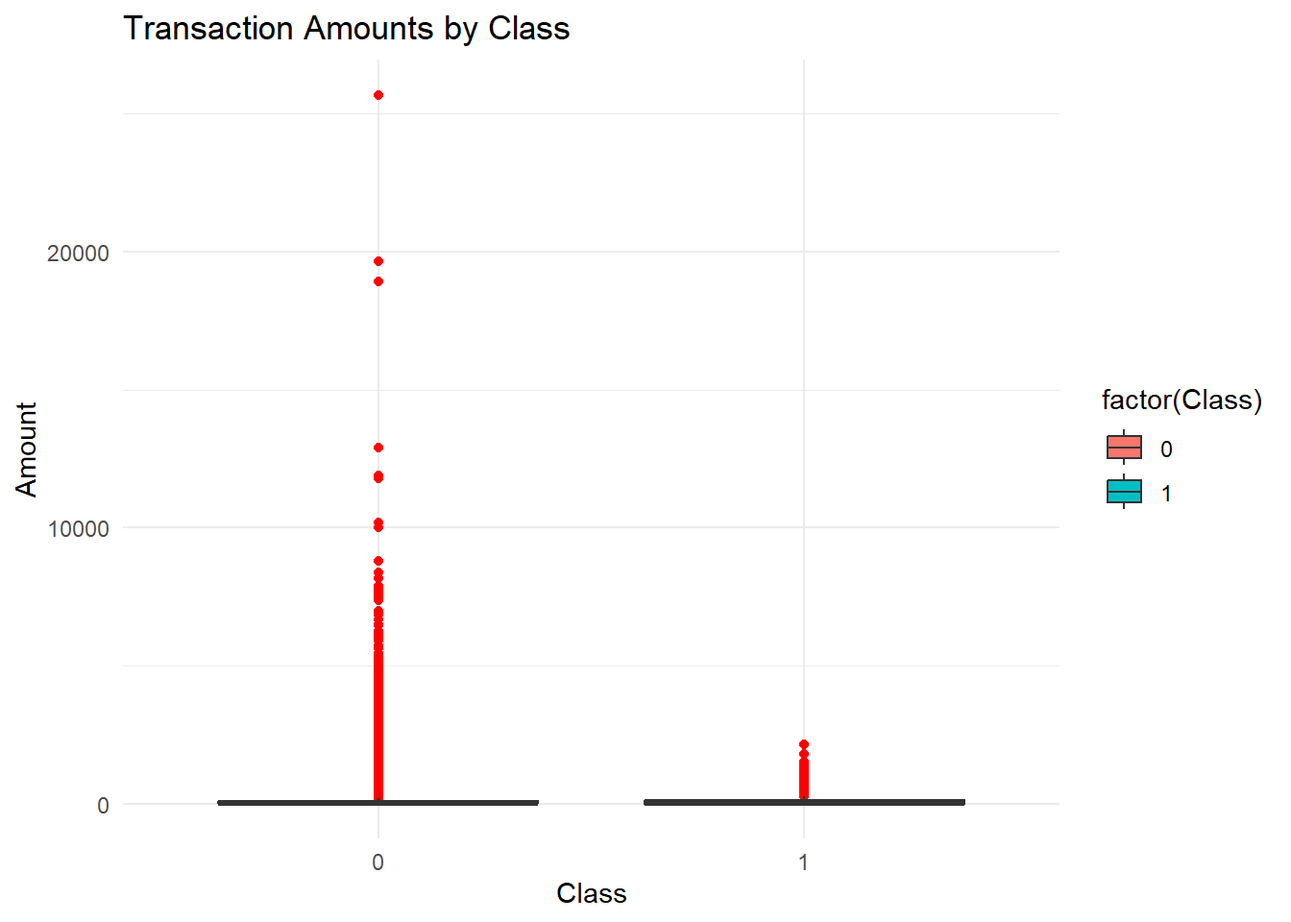
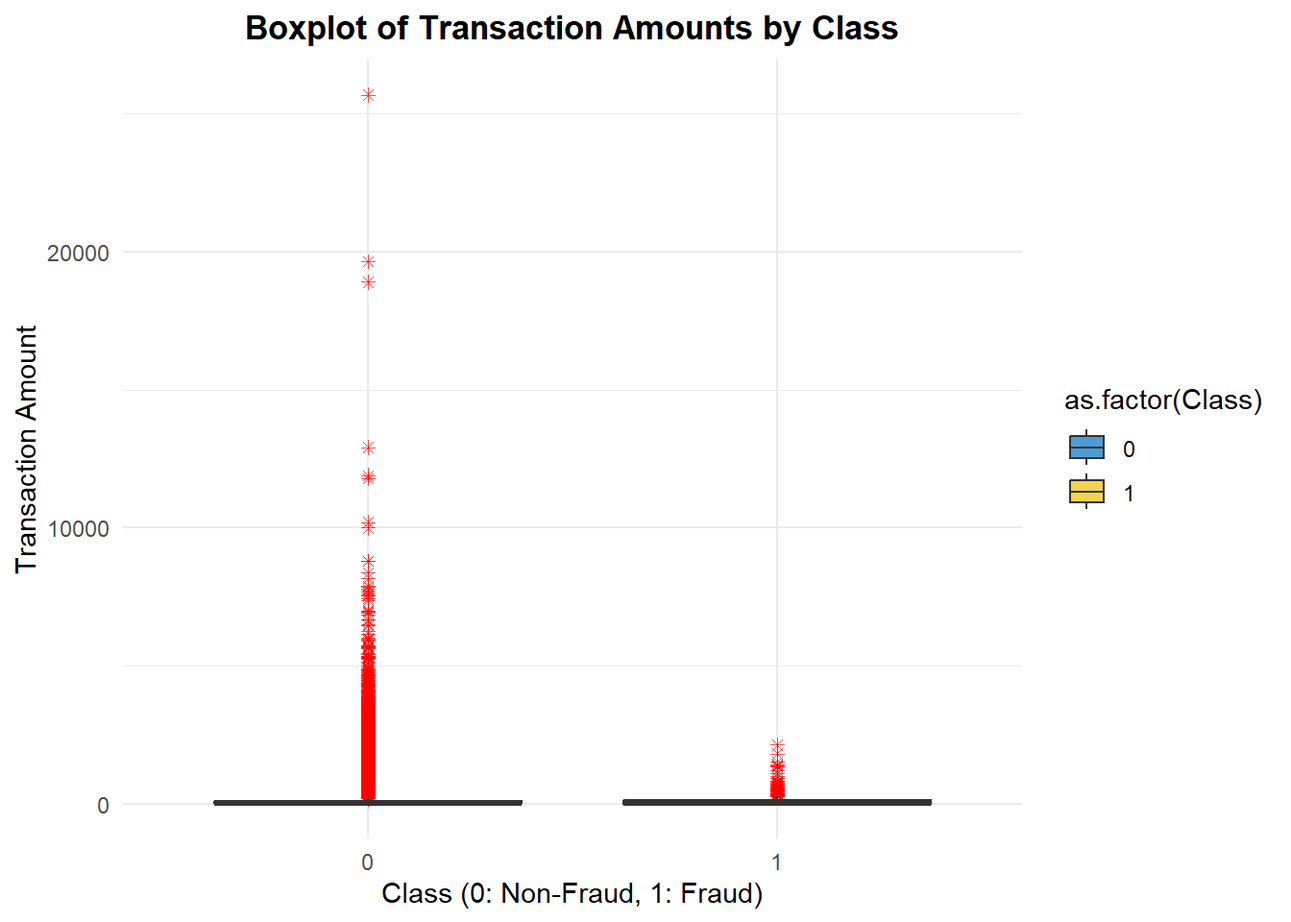
boxplot for class

diff --git a/Analysis.html b/Analysis.html
@@ -93,8 +93,8 @@ ul.task-list li input[type="checkbox"] {
 <h1>Reading the data</h1>
 <div class="cell">
 <div class="cell-output-display">
-<div class="datatables html-widget html-fill-item-overflow-hidden html-fill-item" id="htmlwidget-a2525788a25b4bd6c91a" style="width:100%;height:auto;"></div>
-<script type="application/json" data-for="htmlwidget-a2525788a25b4bd6c91a">{"x":{"filter":"none","vertical":false,"data":[["1","2","3","4","5","6"],[0,0,1,1,2,2],[-1.3598071336738,1.19185711131486,-1.35835406159823,-0.966271711572087,-1.15823309349523,-0.425965884412454],[-0.07278117330984971,0.26615071205963,-1.34016307473609,-0.185226008082898,0.877736754848451,0.960523044882985],[2.53634673796914,0.16648011335321,1.77320934263119,1.79299333957872,1.548717846511,1.14110934232219],[1.37815522427443,0.448154078460911,0.379779593034328,-0.863291275036453,0.403033933955121,-0.168252079760302],[-0.338320769942518,0.0600176492822243,-0.503198133318193,-0.0103088796030823,-0.407193377311653,0.42098688077219],[0.462387777762292,-0.0823608088155687,1.80049938079263,1.24720316752486,0.0959214624684256,-0.0297275516639742],[0.239598554061257,-0.0788029833323113,0.791460956450422,0.23760893977178,0.592940745385545,0.476200948720027],[0.0986979012610507,0.08510165491481041,0.247675786588991,0.377435874652262,-0.270532677192282,0.260314333074874],[0.363786969611213,-0.255425128109186,-1.51465432260583,-1.38702406270197,0.8177393082352939,-0.56867137571251],[0.0907941719789316,-0.166974414004614,0.207642865216696,-0.0549519224713749,0.753074431976354,-0.371407196834471],[-0.551599533260813,1.61272666105479,0.624501459424895,-0.226487263835401,-0.822842877946363,1.34126198001957],[-0.617800855762348,1.06523531137287,0.066083685268831,0.178228225877303,0.53819555014995,0.359893837038039],[-0.991389847235408,0.48909501589608,0.7172927314108311,0.507756869957169,1.3458515932154,-0.358090652573631],[-0.311169353699879,-0.143772296441519,-0.165945922763554,-0.28792374549456,-1.11966983471731,-0.137133700217612],[1.46817697209427,0.635558093258208,2.34586494901581,-0.631418117709045,0.175121130008994,0.517616806555742],[-0.470400525259478,0.463917041022171,-2.89008319444231,-1.0596472454325,-0.451449182813529,0.401725895589603],[0.207971241929242,-0.114804663102346,1.10996937869599,-0.684092786345479,-0.237033239362776,-0.0581328233640131],[0.0257905801985591,-0.183361270123994,-0.121359313195888,1.96577500349538,-0.0381947870352842,0.06865314944254319],[0.403992960255733,-0.145783041325259,-2.26185709530414,-1.2326219700892,0.803486924960175,-0.0331937877876282],[0.251412098239705,-0.0690831352230203,0.5249797252244039,-0.208037781160366,0.408542360392758,0.08496767206820489],[-0.018306777944153,-0.225775248033138,0.247998153469754,-0.108300452035545,-0.009430697132329189,-0.208253514656728],[0.277837575558899,-0.638671952771851,0.7716794019172289,0.00527359678253453,0.79827849458971,-0.559824796253248],[-0.110473910188767,0.101288021253234,0.909412262347719,-0.190320518742841,-0.137458079619063,-0.0263976679795373],[0.06692807491467311,-0.339846475529127,-0.689280956490685,-1.17557533186321,0.141266983824769,-0.371426583174346],[0.128539358273528,0.167170404418143,-0.327641833735251,0.647376034602038,-0.206009587619756,-0.232793816737034],[-0.189114843888824,0.125894532368176,-0.139096571514147,-0.221928844458407,0.502292224181569,0.105914779097957],[0.133558376740387,-0.00898309914322813,-0.0553527940384261,0.0627228487293033,0.219422229513348,0.253844224739337],[-0.0210530534538215,0.0147241691924927,-0.0597518405929204,0.0614576285006353,0.215153147499206,0.08108025692294429],[149.62,2.69,378.66,123.5,69.98999999999999,3.67],[0,0,0,0,0,0]],"container":"<table class=\"display\">\n  <thead>\n    <tr>\n      <th> <\/th>\n      <th>Time<\/th>\n      <th>V1<\/th>\n      <th>V2<\/th>\n      <th>V3<\/th>\n      <th>V4<\/th>\n      <th>V5<\/th>\n      <th>V6<\/th>\n      <th>V7<\/th>\n      <th>V8<\/th>\n      <th>V9<\/th>\n      <th>V10<\/th>\n      <th>V11<\/th>\n      <th>V12<\/th>\n      <th>V13<\/th>\n      <th>V14<\/th>\n      <th>V15<\/th>\n      <th>V16<\/th>\n      <th>V17<\/th>\n      <th>V18<\/th>\n      <th>V19<\/th>\n      <th>V20<\/th>\n      <th>V21<\/th>\n      <th>V22<\/th>\n      <th>V23<\/th>\n      <th>V24<\/th>\n      <th>V25<\/th>\n      <th>V26<\/th>\n      <th>V27<\/th>\n      <th>V28<\/th>\n      <th>Amount<\/th>\n      <th>Class<\/th>\n    <\/tr>\n  <\/thead>\n<\/table>","options":{"columnDefs":[{"className":"dt-right","targets":[1,2,3,4,5,6,7,8,9,10,11,12,13,14,15,16,17,18,19,20,21,22,23,24,25,26,27,28,29,30,31]},{"orderable":false,"targets":0}],"order":[],"autoWidth":false,"orderClasses":false}},"evals":[],"jsHooks":[]}</script>
+<div class="datatables html-widget html-fill-item-overflow-hidden html-fill-item" id="htmlwidget-20f907aa41ca84641a3b" style="width:100%;height:auto;"></div>
+<script type="application/json" data-for="htmlwidget-20f907aa41ca84641a3b">{"x":{"filter":"none","vertical":false,"data":[["1","2","3","4","5","6"],[0,0,1,1,2,2],[-1.3598071336738,1.19185711131486,-1.35835406159823,-0.966271711572087,-1.15823309349523,-0.425965884412454],[-0.07278117330984971,0.26615071205963,-1.34016307473609,-0.185226008082898,0.877736754848451,0.960523044882985],[2.53634673796914,0.16648011335321,1.77320934263119,1.79299333957872,1.548717846511,1.14110934232219],[1.37815522427443,0.448154078460911,0.379779593034328,-0.863291275036453,0.403033933955121,-0.168252079760302],[-0.338320769942518,0.0600176492822243,-0.503198133318193,-0.0103088796030823,-0.407193377311653,0.42098688077219],[0.462387777762292,-0.0823608088155687,1.80049938079263,1.24720316752486,0.0959214624684256,-0.0297275516639742],[0.239598554061257,-0.0788029833323113,0.791460956450422,0.23760893977178,0.592940745385545,0.476200948720027],[0.0986979012610507,0.08510165491481041,0.247675786588991,0.377435874652262,-0.270532677192282,0.260314333074874],[0.363786969611213,-0.255425128109186,-1.51465432260583,-1.38702406270197,0.8177393082352939,-0.56867137571251],[0.0907941719789316,-0.166974414004614,0.207642865216696,-0.0549519224713749,0.753074431976354,-0.371407196834471],[-0.551599533260813,1.61272666105479,0.624501459424895,-0.226487263835401,-0.822842877946363,1.34126198001957],[-0.617800855762348,1.06523531137287,0.066083685268831,0.178228225877303,0.53819555014995,0.359893837038039],[-0.991389847235408,0.48909501589608,0.7172927314108311,0.507756869957169,1.3458515932154,-0.358090652573631],[-0.311169353699879,-0.143772296441519,-0.165945922763554,-0.28792374549456,-1.11966983471731,-0.137133700217612],[1.46817697209427,0.635558093258208,2.34586494901581,-0.631418117709045,0.175121130008994,0.517616806555742],[-0.470400525259478,0.463917041022171,-2.89008319444231,-1.0596472454325,-0.451449182813529,0.401725895589603],[0.207971241929242,-0.114804663102346,1.10996937869599,-0.684092786345479,-0.237033239362776,-0.0581328233640131],[0.0257905801985591,-0.183361270123994,-0.121359313195888,1.96577500349538,-0.0381947870352842,0.06865314944254319],[0.403992960255733,-0.145783041325259,-2.26185709530414,-1.2326219700892,0.803486924960175,-0.0331937877876282],[0.251412098239705,-0.0690831352230203,0.5249797252244039,-0.208037781160366,0.408542360392758,0.08496767206820489],[-0.018306777944153,-0.225775248033138,0.247998153469754,-0.108300452035545,-0.009430697132329189,-0.208253514656728],[0.277837575558899,-0.638671952771851,0.7716794019172289,0.00527359678253453,0.79827849458971,-0.559824796253248],[-0.110473910188767,0.101288021253234,0.909412262347719,-0.190320518742841,-0.137458079619063,-0.0263976679795373],[0.06692807491467311,-0.339846475529127,-0.689280956490685,-1.17557533186321,0.141266983824769,-0.371426583174346],[0.128539358273528,0.167170404418143,-0.327641833735251,0.647376034602038,-0.206009587619756,-0.232793816737034],[-0.189114843888824,0.125894532368176,-0.139096571514147,-0.221928844458407,0.502292224181569,0.105914779097957],[0.133558376740387,-0.00898309914322813,-0.0553527940384261,0.0627228487293033,0.219422229513348,0.253844224739337],[-0.0210530534538215,0.0147241691924927,-0.0597518405929204,0.0614576285006353,0.215153147499206,0.08108025692294429],[149.62,2.69,378.66,123.5,69.98999999999999,3.67],[0,0,0,0,0,0]],"container":"<table class=\"display\">\n  <thead>\n    <tr>\n      <th> <\/th>\n      <th>Time<\/th>\n      <th>V1<\/th>\n      <th>V2<\/th>\n      <th>V3<\/th>\n      <th>V4<\/th>\n      <th>V5<\/th>\n      <th>V6<\/th>\n      <th>V7<\/th>\n      <th>V8<\/th>\n      <th>V9<\/th>\n      <th>V10<\/th>\n      <th>V11<\/th>\n      <th>V12<\/th>\n      <th>V13<\/th>\n      <th>V14<\/th>\n      <th>V15<\/th>\n      <th>V16<\/th>\n      <th>V17<\/th>\n      <th>V18<\/th>\n      <th>V19<\/th>\n      <th>V20<\/th>\n      <th>V21<\/th>\n      <th>V22<\/th>\n      <th>V23<\/th>\n      <th>V24<\/th>\n      <th>V25<\/th>\n      <th>V26<\/th>\n      <th>V27<\/th>\n      <th>V28<\/th>\n      <th>Amount<\/th>\n      <th>Class<\/th>\n    <\/tr>\n  <\/thead>\n<\/table>","options":{"columnDefs":[{"className":"dt-right","targets":[1,2,3,4,5,6,7,8,9,10,11,12,13,14,15,16,17,18,19,20,21,22,23,24,25,26,27,28,29,30,31]},{"orderable":false,"targets":0}],"order":[],"autoWidth":false,"orderClasses":false}},"evals":[],"jsHooks":[]}</script>
 </div>
 </div>
 </section>
@@ -157,8 +157,8 @@ Note
 <h2 class="anchored" data-anchor-id="exploring-the-data">Exploring the data</h2>
 <div class="cell">
 <div class="cell-output-display">
-<div class="datatables html-widget html-fill-item-overflow-hidden html-fill-item" id="htmlwidget-0b53a9c8b8015eda41b4" style="width:100%;height:auto;"></div>
-<script type="application/json" data-for="htmlwidget-0b53a9c8b8015eda41b4">{"x":{"filter":"none","vertical":false,"data":[["","","","","","","","","","","","","","","","","","","","","","","","","","","","","","","","","","","","","","","","","","","","","","","","","","","","","","","","","","","","","","","","","","","","","","","","","","","","","","","","","","","","","","","","","","","","","","","","","","","","","","","","","","","","","","","","","","","","","","","","","","","","","","","","","","","","","","","","","","","","","","","","","","","","","","","","","","","","","","","","","","","","","","","","","","","","","","","","","","","","","","","","","",""],["","","","","","","","","","","","","","","","","","","","","","","","","","","","","","","","","","","","","","","","","","","","","","","","","","","","","","","","","","","","","","","","","","","","","","","","","","","","","","","","","","","","","","","","","","","","","","","","","","","","","","","","","","","","","","","","","","","","","","","","","","","","","","","","","","","","","","","","","","","","","","","","","","","","","","","","","","","","","","","","","","","","","","","","","","","","","","","","","","","","","","","","","",""],["     Time","     Time","     Time","     Time","     Time","     Time","      V1","      V1","      V1","      V1","      V1","      V1","      V2","      V2","      V2","      V2","      V2","      V2","      V3","      V3","      V3","      V3","      V3","      V3","      V4","      V4","      V4","      V4","      V4","      V4","      V5","      V5","      V5","      V5","      V5","      V5","      V6","      V6","      V6","      V6","      V6","      V6","      V7","      V7","      V7","      V7","      V7","      V7","      V8","      V8","      V8","      V8","      V8","      V8","      V9","      V9","      V9","      V9","      V9","      V9","     V10","     V10","     V10","     V10","     V10","     V10","     V11","     V11","     V11","     V11","     V11","     V11","     V12","     V12","     V12","     V12","     V12","     V12","     V13","     V13","     V13","     V13","     V13","     V13","     V14","     V14","     V14","     V14","     V14","     V14","     V15","     V15","     V15","     V15","     V15","     V15","     V16","     V16","     V16","     V16","     V16","     V16","     V17","     V17","     V17","     V17","     V17","     V17","     V18","     V18","     V18","     V18","     V18","     V18","     V19","     V19","     V19","     V19","     V19","     V19","     V20","     V20","     V20","     V20","     V20","     V20","     V21","     V21","     V21","     V21","     V21","     V21","     V22","     V22","     V22","     V22","     V22","     V22","     V23","     V23","     V23","     V23","     V23","     V23","     V24","     V24","     V24","     V24","     V24","     V24","     V25","     V25","     V25","     V25","     V25","     V25","     V26","     V26","     V26","     V26","     V26","     V26","     V27","     V27","     V27","     V27","     V27","     V27","     V28","     V28","     V28","     V28","     V28","     V28","    Amount","    Amount","    Amount","    Amount","    Amount","    Amount","    Class","    Class","    Class","    Class","    Class","    Class"],["Min.   :     0  ","1st Qu.: 54202  ","Median : 84692  ","Mean   : 94814  ","3rd Qu.:139321  ","Max.   :172792  ","Min.   :-56.40751  ","1st Qu.: -0.92037  ","Median :  0.01811  ","Mean   :  0.00000  ","3rd Qu.:  1.31564  ","Max.   :  2.45493  ","Min.   :-72.71573  ","1st Qu.: -0.59855  ","Median :  0.06549  ","Mean   :  0.00000  ","3rd Qu.:  0.80372  ","Max.   : 22.05773  ","Min.   :-48.3256  ","1st Qu.: -0.8904  ","Median :  0.1799  ","Mean   :  0.0000  ","3rd Qu.:  1.0272  ","Max.   :  9.3826  ","Min.   :-5.68317  ","1st Qu.:-0.84864  ","Median :-0.01985  ","Mean   : 0.00000  ","3rd Qu.: 0.74334  ","Max.   :16.87534  ","Min.   :-113.74331  ","1st Qu.:  -0.69160  ","Median :  -0.05434  ","Mean   :   0.00000  ","3rd Qu.:   0.61193  ","Max.   :  34.80167  ","Min.   :-26.1605  ","1st Qu.: -0.7683  ","Median : -0.2742  ","Mean   :  0.0000  ","3rd Qu.:  0.3986  ","Max.   : 73.3016  ","Min.   :-43.5572  ","1st Qu.: -0.5541  ","Median :  0.0401  ","Mean   :  0.0000  ","3rd Qu.:  0.5704  ","Max.   :120.5895  ","Min.   :-73.21672  ","1st Qu.: -0.20863  ","Median :  0.02236  ","Mean   :  0.00000  ","3rd Qu.:  0.32735  ","Max.   : 20.00721  ","Min.   :-13.43407  ","1st Qu.: -0.64310  ","Median : -0.05143  ","Mean   :  0.00000  ","3rd Qu.:  0.59714  ","Max.   : 15.59500  ","Min.   :-24.58826  ","1st Qu.: -0.53543  ","Median : -0.09292  ","Mean   :  0.00000  ","3rd Qu.:  0.45392  ","Max.   : 23.74514  ","Min.   :-4.79747  ","1st Qu.:-0.76249  ","Median :-0.03276  ","Mean   : 0.00000  ","3rd Qu.: 0.73959  ","Max.   :12.01891  ","Min.   :-18.6837  ","1st Qu.: -0.4056  ","Median :  0.1400  ","Mean   :  0.0000  ","3rd Qu.:  0.6182  ","Max.   :  7.8484  ","Min.   :-5.79188  ","1st Qu.:-0.64854  ","Median :-0.01357  ","Mean   : 0.00000  ","3rd Qu.: 0.66251  ","Max.   : 7.12688  ","Min.   :-19.2143  ","1st Qu.: -0.4256  ","Median :  0.0506  ","Mean   :  0.0000  ","3rd Qu.:  0.4931  ","Max.   : 10.5268  ","Min.   :-4.49894  ","1st Qu.:-0.58288  ","Median : 0.04807  ","Mean   : 0.00000  ","3rd Qu.: 0.64882  ","Max.   : 8.87774  ","Min.   :-14.12985  ","1st Qu.: -0.46804  ","Median :  0.06641  ","Mean   :  0.00000  ","3rd Qu.:  0.52330  ","Max.   : 17.31511  ","Min.   :-25.16280  ","1st Qu.: -0.48375  ","Median : -0.06568  ","Mean   :  0.00000  ","3rd Qu.:  0.39968  ","Max.   :  9.25353  ","Min.   :-9.498746  ","1st Qu.:-0.498850  ","Median :-0.003636  ","Mean   : 0.000000  ","3rd Qu.: 0.500807  ","Max.   : 5.041069  ","Min.   :-7.213527  ","1st Qu.:-0.456299  ","Median : 0.003735  ","Mean   : 0.000000  ","3rd Qu.: 0.458949  ","Max.   : 5.591971  ","Min.   :-54.49772  ","1st Qu.: -0.21172  ","Median : -0.06248  ","Mean   :  0.00000  ","3rd Qu.:  0.13304  ","Max.   : 39.42090  ","Min.   :-34.83038  ","1st Qu.: -0.22839  ","Median : -0.02945  ","Mean   :  0.00000  ","3rd Qu.:  0.18638  ","Max.   : 27.20284  ","Min.   :-10.933144  ","1st Qu.: -0.542350  ","Median :  0.006782  ","Mean   :  0.000000  ","3rd Qu.:  0.528554  ","Max.   : 10.503090  ","Min.   :-44.80774  ","1st Qu.: -0.16185  ","Median : -0.01119  ","Mean   :  0.00000  ","3rd Qu.:  0.14764  ","Max.   : 22.52841  ","Min.   :-2.83663  ","1st Qu.:-0.35459  ","Median : 0.04098  ","Mean   : 0.00000  ","3rd Qu.: 0.43953  ","Max.   : 4.58455  ","Min.   :-10.29540  ","1st Qu.: -0.31715  ","Median :  0.01659  ","Mean   :  0.00000  ","3rd Qu.:  0.35072  ","Max.   :  7.51959  ","Min.   :-2.60455  ","1st Qu.:-0.32698  ","Median :-0.05214  ","Mean   : 0.00000  ","3rd Qu.: 0.24095  ","Max.   : 3.51735  ","Min.   :-22.565679  ","1st Qu.: -0.070840  ","Median :  0.001342  ","Mean   :  0.000000  ","3rd Qu.:  0.091045  ","Max.   : 31.612198  ","Min.   :-15.43008  ","1st Qu.: -0.05296  ","Median :  0.01124  ","Mean   :  0.00000  ","3rd Qu.:  0.07828  ","Max.   : 33.84781  ","Min.   :    0.00  ","1st Qu.:    5.60  ","Median :   22.00  ","Mean   :   88.35  ","3rd Qu.:   77.17  ","Max.   :25691.16  ","Min.   :0.000000  ","1st Qu.:0.000000  ","Median :0.000000  ","Mean   :0.001728  ","3rd Qu.:0.000000  ","Max.   :1.000000  "]],"container":"<table class=\"display\">\n  <thead>\n    <tr>\n      <th> <\/th>\n      <th>Var1<\/th>\n      <th>Var2<\/th>\n      <th>Freq<\/th>\n    <\/tr>\n  <\/thead>\n<\/table>","options":{"columnDefs":[{"orderable":false,"targets":0}],"order":[],"autoWidth":false,"orderClasses":false}},"evals":[],"jsHooks":[]}</script>
+<div class="datatables html-widget html-fill-item-overflow-hidden html-fill-item" id="htmlwidget-f3156266aaafa59a753a" style="width:100%;height:auto;"></div>
+<script type="application/json" data-for="htmlwidget-f3156266aaafa59a753a">{"x":{"filter":"none","vertical":false,"data":[["","","","","","","","","","","","","","","","","","","","","","","","","","","","","","","","","","","","","","","","","","","","","","","","","","","","","","","","","","","","","","","","","","","","","","","","","","","","","","","","","","","","","","","","","","","","","","","","","","","","","","","","","","","","","","","","","","","","","","","","","","","","","","","","","","","","","","","","","","","","","","","","","","","","","","","","","","","","","","","","","","","","","","","","","","","","","","","","","","","","","","","","","",""],["","","","","","","","","","","","","","","","","","","","","","","","","","","","","","","","","","","","","","","","","","","","","","","","","","","","","","","","","","","","","","","","","","","","","","","","","","","","","","","","","","","","","","","","","","","","","","","","","","","","","","","","","","","","","","","","","","","","","","","","","","","","","","","","","","","","","","","","","","","","","","","","","","","","","","","","","","","","","","","","","","","","","","","","","","","","","","","","","","","","","","","","","",""],["     Time","     Time","     Time","     Time","     Time","     Time","      V1","      V1","      V1","      V1","      V1","      V1","      V2","      V2","      V2","      V2","      V2","      V2","      V3","      V3","      V3","      V3","      V3","      V3","      V4","      V4","      V4","      V4","      V4","      V4","      V5","      V5","      V5","      V5","      V5","      V5","      V6","      V6","      V6","      V6","      V6","      V6","      V7","      V7","      V7","      V7","      V7","      V7","      V8","      V8","      V8","      V8","      V8","      V8","      V9","      V9","      V9","      V9","      V9","      V9","     V10","     V10","     V10","     V10","     V10","     V10","     V11","     V11","     V11","     V11","     V11","     V11","     V12","     V12","     V12","     V12","     V12","     V12","     V13","     V13","     V13","     V13","     V13","     V13","     V14","     V14","     V14","     V14","     V14","     V14","     V15","     V15","     V15","     V15","     V15","     V15","     V16","     V16","     V16","     V16","     V16","     V16","     V17","     V17","     V17","     V17","     V17","     V17","     V18","     V18","     V18","     V18","     V18","     V18","     V19","     V19","     V19","     V19","     V19","     V19","     V20","     V20","     V20","     V20","     V20","     V20","     V21","     V21","     V21","     V21","     V21","     V21","     V22","     V22","     V22","     V22","     V22","     V22","     V23","     V23","     V23","     V23","     V23","     V23","     V24","     V24","     V24","     V24","     V24","     V24","     V25","     V25","     V25","     V25","     V25","     V25","     V26","     V26","     V26","     V26","     V26","     V26","     V27","     V27","     V27","     V27","     V27","     V27","     V28","     V28","     V28","     V28","     V28","     V28","    Amount","    Amount","    Amount","    Amount","    Amount","    Amount","    Class","    Class","    Class","    Class","    Class","    Class"],["Min.   :     0  ","1st Qu.: 54202  ","Median : 84692  ","Mean   : 94814  ","3rd Qu.:139321  ","Max.   :172792  ","Min.   :-56.40751  ","1st Qu.: -0.92037  ","Median :  0.01811  ","Mean   :  0.00000  ","3rd Qu.:  1.31564  ","Max.   :  2.45493  ","Min.   :-72.71573  ","1st Qu.: -0.59855  ","Median :  0.06549  ","Mean   :  0.00000  ","3rd Qu.:  0.80372  ","Max.   : 22.05773  ","Min.   :-48.3256  ","1st Qu.: -0.8904  ","Median :  0.1799  ","Mean   :  0.0000  ","3rd Qu.:  1.0272  ","Max.   :  9.3826  ","Min.   :-5.68317  ","1st Qu.:-0.84864  ","Median :-0.01985  ","Mean   : 0.00000  ","3rd Qu.: 0.74334  ","Max.   :16.87534  ","Min.   :-113.74331  ","1st Qu.:  -0.69160  ","Median :  -0.05434  ","Mean   :   0.00000  ","3rd Qu.:   0.61193  ","Max.   :  34.80167  ","Min.   :-26.1605  ","1st Qu.: -0.7683  ","Median : -0.2742  ","Mean   :  0.0000  ","3rd Qu.:  0.3986  ","Max.   : 73.3016  ","Min.   :-43.5572  ","1st Qu.: -0.5541  ","Median :  0.0401  ","Mean   :  0.0000  ","3rd Qu.:  0.5704  ","Max.   :120.5895  ","Min.   :-73.21672  ","1st Qu.: -0.20863  ","Median :  0.02236  ","Mean   :  0.00000  ","3rd Qu.:  0.32735  ","Max.   : 20.00721  ","Min.   :-13.43407  ","1st Qu.: -0.64310  ","Median : -0.05143  ","Mean   :  0.00000  ","3rd Qu.:  0.59714  ","Max.   : 15.59500  ","Min.   :-24.58826  ","1st Qu.: -0.53543  ","Median : -0.09292  ","Mean   :  0.00000  ","3rd Qu.:  0.45392  ","Max.   : 23.74514  ","Min.   :-4.79747  ","1st Qu.:-0.76249  ","Median :-0.03276  ","Mean   : 0.00000  ","3rd Qu.: 0.73959  ","Max.   :12.01891  ","Min.   :-18.6837  ","1st Qu.: -0.4056  ","Median :  0.1400  ","Mean   :  0.0000  ","3rd Qu.:  0.6182  ","Max.   :  7.8484  ","Min.   :-5.79188  ","1st Qu.:-0.64854  ","Median :-0.01357  ","Mean   : 0.00000  ","3rd Qu.: 0.66251  ","Max.   : 7.12688  ","Min.   :-19.2143  ","1st Qu.: -0.4256  ","Median :  0.0506  ","Mean   :  0.0000  ","3rd Qu.:  0.4931  ","Max.   : 10.5268  ","Min.   :-4.49894  ","1st Qu.:-0.58288  ","Median : 0.04807  ","Mean   : 0.00000  ","3rd Qu.: 0.64882  ","Max.   : 8.87774  ","Min.   :-14.12985  ","1st Qu.: -0.46804  ","Median :  0.06641  ","Mean   :  0.00000  ","3rd Qu.:  0.52330  ","Max.   : 17.31511  ","Min.   :-25.16280  ","1st Qu.: -0.48375  ","Median : -0.06568  ","Mean   :  0.00000  ","3rd Qu.:  0.39968  ","Max.   :  9.25353  ","Min.   :-9.498746  ","1st Qu.:-0.498850  ","Median :-0.003636  ","Mean   : 0.000000  ","3rd Qu.: 0.500807  ","Max.   : 5.041069  ","Min.   :-7.213527  ","1st Qu.:-0.456299  ","Median : 0.003735  ","Mean   : 0.000000  ","3rd Qu.: 0.458949  ","Max.   : 5.591971  ","Min.   :-54.49772  ","1st Qu.: -0.21172  ","Median : -0.06248  ","Mean   :  0.00000  ","3rd Qu.:  0.13304  ","Max.   : 39.42090  ","Min.   :-34.83038  ","1st Qu.: -0.22839  ","Median : -0.02945  ","Mean   :  0.00000  ","3rd Qu.:  0.18638  ","Max.   : 27.20284  ","Min.   :-10.933144  ","1st Qu.: -0.542350  ","Median :  0.006782  ","Mean   :  0.000000  ","3rd Qu.:  0.528554  ","Max.   : 10.503090  ","Min.   :-44.80774  ","1st Qu.: -0.16185  ","Median : -0.01119  ","Mean   :  0.00000  ","3rd Qu.:  0.14764  ","Max.   : 22.52841  ","Min.   :-2.83663  ","1st Qu.:-0.35459  ","Median : 0.04098  ","Mean   : 0.00000  ","3rd Qu.: 0.43953  ","Max.   : 4.58455  ","Min.   :-10.29540  ","1st Qu.: -0.31715  ","Median :  0.01659  ","Mean   :  0.00000  ","3rd Qu.:  0.35072  ","Max.   :  7.51959  ","Min.   :-2.60455  ","1st Qu.:-0.32698  ","Median :-0.05214  ","Mean   : 0.00000  ","3rd Qu.: 0.24095  ","Max.   : 3.51735  ","Min.   :-22.565679  ","1st Qu.: -0.070840  ","Median :  0.001342  ","Mean   :  0.000000  ","3rd Qu.:  0.091045  ","Max.   : 31.612198  ","Min.   :-15.43008  ","1st Qu.: -0.05296  ","Median :  0.01124  ","Mean   :  0.00000  ","3rd Qu.:  0.07828  ","Max.   : 33.84781  ","Min.   :    0.00  ","1st Qu.:    5.60  ","Median :   22.00  ","Mean   :   88.35  ","3rd Qu.:   77.17  ","Max.   :25691.16  ","Min.   :0.000000  ","1st Qu.:0.000000  ","Median :0.000000  ","Mean   :0.001728  ","3rd Qu.:0.000000  ","Max.   :1.000000  "]],"container":"<table class=\"display\">\n  <thead>\n    <tr>\n      <th> <\/th>\n      <th>Var1<\/th>\n      <th>Var2<\/th>\n      <th>Freq<\/th>\n    <\/tr>\n  <\/thead>\n<\/table>","options":{"columnDefs":[{"orderable":false,"targets":0}],"order":[],"autoWidth":false,"orderClasses":false}},"evals":[],"jsHooks":[]}</script>
 </div>
 </div>
 <section id="check-class-imbalance" class="level3">
@@ -316,14 +316,27 @@ Note
 </div>
 </div>
 </div>
+<div class="callout callout-style-default callout-note callout-titled">
+<div class="callout-header d-flex align-content-center">
+<div class="callout-icon-container">
+<i class="callout-icon"></i>
+</div>
+<div class="callout-title-container flex-fill">
+Note
+</div>
+</div>
+<div class="callout-body-container callout-body">
+<p>Fraudulent transactions exhibit a lower median transaction amount compared to non-fraudulent transactions.The presence of several outliers in fraudulent transactions suggests some high-value fraudulent activities. The spread of transaction amounts for legitimate transactions is much broader.</p>
+</div>
+</div>
 </section>
 </section>
 <section id="data-preprocessing" class="level2">
 <h2 class="anchored" data-anchor-id="data-preprocessing">Data Preprocessing</h2>
 <div class="cell">
 <div class="cell-output-display">
-<div class="datatables html-widget html-fill-item-overflow-hidden html-fill-item" id="htmlwidget-7e1b6ba7346e3de69ea9" style="width:100%;height:auto;"></div>
-<script type="application/json" data-for="htmlwidget-7e1b6ba7346e3de69ea9">{"x":{"filter":"none","vertical":false,"data":[["1","2","3","4","5","6"],[-1.3598071336738,1.19185711131486,-1.35835406159823,-0.966271711572087,-1.15823309349523,-0.425965884412454],[-0.07278117330984971,0.26615071205963,-1.34016307473609,-0.185226008082898,0.877736754848451,0.960523044882985],[2.53634673796914,0.16648011335321,1.77320934263119,1.79299333957872,1.548717846511,1.14110934232219],[1.37815522427443,0.448154078460911,0.379779593034328,-0.863291275036453,0.403033933955121,-0.168252079760302],[-0.338320769942518,0.0600176492822243,-0.503198133318193,-0.0103088796030823,-0.407193377311653,0.42098688077219],[0.462387777762292,-0.0823608088155687,1.80049938079263,1.24720316752486,0.0959214624684256,-0.0297275516639742],[0.239598554061257,-0.0788029833323113,0.791460956450422,0.23760893977178,0.592940745385545,0.476200948720027],[0.0986979012610507,0.08510165491481041,0.247675786588991,0.377435874652262,-0.270532677192282,0.260314333074874],[0.363786969611213,-0.255425128109186,-1.51465432260583,-1.38702406270197,0.8177393082352939,-0.56867137571251],[0.0907941719789316,-0.166974414004614,0.207642865216696,-0.0549519224713749,0.753074431976354,-0.371407196834471],[-0.551599533260813,1.61272666105479,0.624501459424895,-0.226487263835401,-0.822842877946363,1.34126198001957],[-0.617800855762348,1.06523531137287,0.066083685268831,0.178228225877303,0.53819555014995,0.359893837038039],[-0.991389847235408,0.48909501589608,0.7172927314108311,0.507756869957169,1.3458515932154,-0.358090652573631],[-0.311169353699879,-0.143772296441519,-0.165945922763554,-0.28792374549456,-1.11966983471731,-0.137133700217612],[1.46817697209427,0.635558093258208,2.34586494901581,-0.631418117709045,0.175121130008994,0.517616806555742],[-0.470400525259478,0.463917041022171,-2.89008319444231,-1.0596472454325,-0.451449182813529,0.401725895589603],[0.207971241929242,-0.114804663102346,1.10996937869599,-0.684092786345479,-0.237033239362776,-0.0581328233640131],[0.0257905801985591,-0.183361270123994,-0.121359313195888,1.96577500349538,-0.0381947870352842,0.06865314944254319],[0.403992960255733,-0.145783041325259,-2.26185709530414,-1.2326219700892,0.803486924960175,-0.0331937877876282],[0.251412098239705,-0.0690831352230203,0.5249797252244039,-0.208037781160366,0.408542360392758,0.08496767206820489],[-0.018306777944153,-0.225775248033138,0.247998153469754,-0.108300452035545,-0.009430697132329189,-0.208253514656728],[0.277837575558899,-0.638671952771851,0.7716794019172289,0.00527359678253453,0.79827849458971,-0.559824796253248],[-0.110473910188767,0.101288021253234,0.909412262347719,-0.190320518742841,-0.137458079619063,-0.0263976679795373],[0.06692807491467311,-0.339846475529127,-0.689280956490685,-1.17557533186321,0.141266983824769,-0.371426583174346],[0.128539358273528,0.167170404418143,-0.327641833735251,0.647376034602038,-0.206009587619756,-0.232793816737034],[-0.189114843888824,0.125894532368176,-0.139096571514147,-0.221928844458407,0.502292224181569,0.105914779097957],[0.133558376740387,-0.00898309914322813,-0.0553527940384261,0.0627228487293033,0.219422229513348,0.253844224739337],[-0.0210530534538215,0.0147241691924927,-0.0597518405929204,0.0614576285006353,0.215153147499206,0.08108025692294429],[0.005823793086804955,0.0001047052760560442,0.01473892187040212,0.004807100963911322,0.00272428337217938,0.0001428506926117777],[0,0,0,0,0,0],["Very High","Low","Very High","Very High","High","Low"]],"container":"<table class=\"display\">\n  <thead>\n    <tr>\n      <th> <\/th>\n      <th>V1<\/th>\n      <th>V2<\/th>\n      <th>V3<\/th>\n      <th>V4<\/th>\n      <th>V5<\/th>\n      <th>V6<\/th>\n      <th>V7<\/th>\n      <th>V8<\/th>\n      <th>V9<\/th>\n      <th>V10<\/th>\n      <th>V11<\/th>\n      <th>V12<\/th>\n      <th>V13<\/th>\n      <th>V14<\/th>\n      <th>V15<\/th>\n      <th>V16<\/th>\n      <th>V17<\/th>\n      <th>V18<\/th>\n      <th>V19<\/th>\n      <th>V20<\/th>\n      <th>V21<\/th>\n      <th>V22<\/th>\n      <th>V23<\/th>\n      <th>V24<\/th>\n      <th>V25<\/th>\n      <th>V26<\/th>\n      <th>V27<\/th>\n      <th>V28<\/th>\n      <th>Amount<\/th>\n      <th>Class<\/th>\n      <th>Amount_Category<\/th>\n    <\/tr>\n  <\/thead>\n<\/table>","options":{"columnDefs":[{"className":"dt-right","targets":[1,2,3,4,5,6,7,8,9,10,11,12,13,14,15,16,17,18,19,20,21,22,23,24,25,26,27,28,29,30]},{"orderable":false,"targets":0}],"order":[],"autoWidth":false,"orderClasses":false}},"evals":[],"jsHooks":[]}</script>
+<div class="datatables html-widget html-fill-item-overflow-hidden html-fill-item" id="htmlwidget-7164fa6f6cfc97103f7f" style="width:100%;height:auto;"></div>
+<script type="application/json" data-for="htmlwidget-7164fa6f6cfc97103f7f">{"x":{"filter":"none","vertical":false,"data":[["1","2","3","4","5","6"],[-1.3598071336738,1.19185711131486,-1.35835406159823,-0.966271711572087,-1.15823309349523,-0.425965884412454],[-0.07278117330984971,0.26615071205963,-1.34016307473609,-0.185226008082898,0.877736754848451,0.960523044882985],[2.53634673796914,0.16648011335321,1.77320934263119,1.79299333957872,1.548717846511,1.14110934232219],[1.37815522427443,0.448154078460911,0.379779593034328,-0.863291275036453,0.403033933955121,-0.168252079760302],[-0.338320769942518,0.0600176492822243,-0.503198133318193,-0.0103088796030823,-0.407193377311653,0.42098688077219],[0.462387777762292,-0.0823608088155687,1.80049938079263,1.24720316752486,0.0959214624684256,-0.0297275516639742],[0.239598554061257,-0.0788029833323113,0.791460956450422,0.23760893977178,0.592940745385545,0.476200948720027],[0.0986979012610507,0.08510165491481041,0.247675786588991,0.377435874652262,-0.270532677192282,0.260314333074874],[0.363786969611213,-0.255425128109186,-1.51465432260583,-1.38702406270197,0.8177393082352939,-0.56867137571251],[0.0907941719789316,-0.166974414004614,0.207642865216696,-0.0549519224713749,0.753074431976354,-0.371407196834471],[-0.551599533260813,1.61272666105479,0.624501459424895,-0.226487263835401,-0.822842877946363,1.34126198001957],[-0.617800855762348,1.06523531137287,0.066083685268831,0.178228225877303,0.53819555014995,0.359893837038039],[-0.991389847235408,0.48909501589608,0.7172927314108311,0.507756869957169,1.3458515932154,-0.358090652573631],[-0.311169353699879,-0.143772296441519,-0.165945922763554,-0.28792374549456,-1.11966983471731,-0.137133700217612],[1.46817697209427,0.635558093258208,2.34586494901581,-0.631418117709045,0.175121130008994,0.517616806555742],[-0.470400525259478,0.463917041022171,-2.89008319444231,-1.0596472454325,-0.451449182813529,0.401725895589603],[0.207971241929242,-0.114804663102346,1.10996937869599,-0.684092786345479,-0.237033239362776,-0.0581328233640131],[0.0257905801985591,-0.183361270123994,-0.121359313195888,1.96577500349538,-0.0381947870352842,0.06865314944254319],[0.403992960255733,-0.145783041325259,-2.26185709530414,-1.2326219700892,0.803486924960175,-0.0331937877876282],[0.251412098239705,-0.0690831352230203,0.5249797252244039,-0.208037781160366,0.408542360392758,0.08496767206820489],[-0.018306777944153,-0.225775248033138,0.247998153469754,-0.108300452035545,-0.009430697132329189,-0.208253514656728],[0.277837575558899,-0.638671952771851,0.7716794019172289,0.00527359678253453,0.79827849458971,-0.559824796253248],[-0.110473910188767,0.101288021253234,0.909412262347719,-0.190320518742841,-0.137458079619063,-0.0263976679795373],[0.06692807491467311,-0.339846475529127,-0.689280956490685,-1.17557533186321,0.141266983824769,-0.371426583174346],[0.128539358273528,0.167170404418143,-0.327641833735251,0.647376034602038,-0.206009587619756,-0.232793816737034],[-0.189114843888824,0.125894532368176,-0.139096571514147,-0.221928844458407,0.502292224181569,0.105914779097957],[0.133558376740387,-0.00898309914322813,-0.0553527940384261,0.0627228487293033,0.219422229513348,0.253844224739337],[-0.0210530534538215,0.0147241691924927,-0.0597518405929204,0.0614576285006353,0.215153147499206,0.08108025692294429],[0.005823793086804955,0.0001047052760560442,0.01473892187040212,0.004807100963911322,0.00272428337217938,0.0001428506926117777],[0,0,0,0,0,0],["Very High","Low","Very High","Very High","High","Low"]],"container":"<table class=\"display\">\n  <thead>\n    <tr>\n      <th> <\/th>\n      <th>V1<\/th>\n      <th>V2<\/th>\n      <th>V3<\/th>\n      <th>V4<\/th>\n      <th>V5<\/th>\n      <th>V6<\/th>\n      <th>V7<\/th>\n      <th>V8<\/th>\n      <th>V9<\/th>\n      <th>V10<\/th>\n      <th>V11<\/th>\n      <th>V12<\/th>\n      <th>V13<\/th>\n      <th>V14<\/th>\n      <th>V15<\/th>\n      <th>V16<\/th>\n      <th>V17<\/th>\n      <th>V18<\/th>\n      <th>V19<\/th>\n      <th>V20<\/th>\n      <th>V21<\/th>\n      <th>V22<\/th>\n      <th>V23<\/th>\n      <th>V24<\/th>\n      <th>V25<\/th>\n      <th>V26<\/th>\n      <th>V27<\/th>\n      <th>V28<\/th>\n      <th>Amount<\/th>\n      <th>Class<\/th>\n      <th>Amount_Category<\/th>\n    <\/tr>\n  <\/thead>\n<\/table>","options":{"columnDefs":[{"className":"dt-right","targets":[1,2,3,4,5,6,7,8,9,10,11,12,13,14,15,16,17,18,19,20,21,22,23,24,25,26,27,28,29,30]},{"orderable":false,"targets":0}],"order":[],"autoWidth":false,"orderClasses":false}},"evals":[],"jsHooks":[]}</script>
 </div>
 </div>
 <ol type="1">
